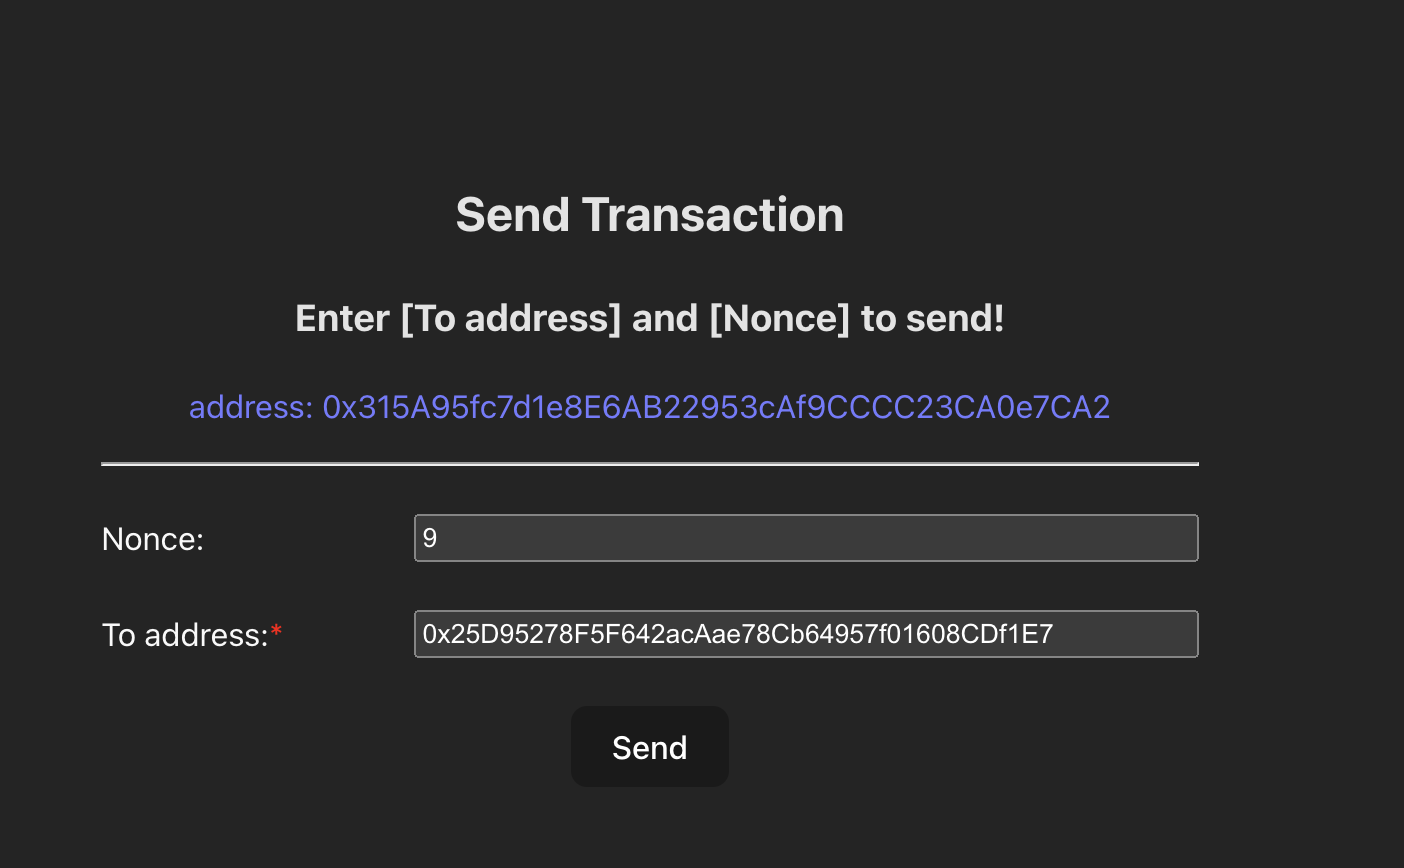
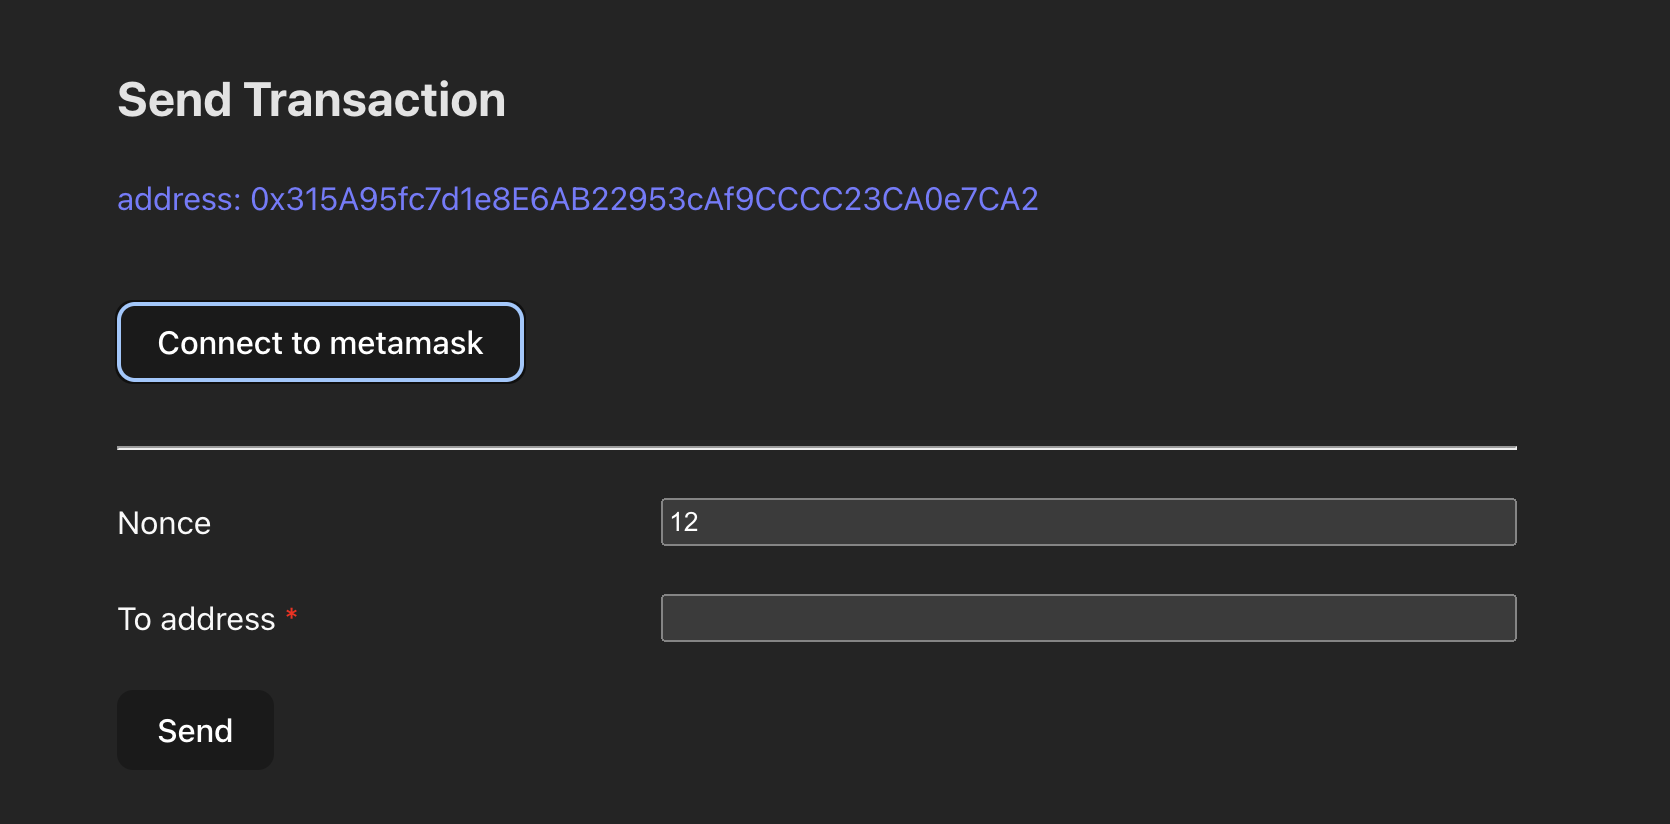
update readme

diff --git a/src/NetworkSettings.tsx b/src/NetworkSettings.tsx
@@ -37,7 +37,7 @@ const formConfig: Array<{
   label: string
   require: boolean
 }> = [
-  { name: 'networkName', label: 'Network Name', require: false },
+  { name: 'networkName', label: 'Network Name', require: true },
   { name: 'newRpcURL', label: 'New RPC URL', require: true },
   { name: 'chainID', label: 'Chain ID', require: true },
   { name: 'currencySymbol', label: 'Native Currency Symbol', require: true },
@@ -188,14 +188,14 @@ const NetworkSettings = () => {
         {renderChainOptions()}
       </div>
       <button type='submit' onClick={changeNetwork}>
-        Send
+        Switch
       </button>
 
       <h4> Add Network</h4>
       <hr />
       <form>{renderFields()}</form>
       <button type='submit' onClick={addCustomNetwork}>
-        Send
+        Add
       </button>
     </>
   )

diff --git a/src/SendTransaction.tsx b/src/SendTransaction.tsx
@@ -67,7 +67,6 @@ function SendTransaction() {
   return (
     <div className='sendTransaction__container'>
       <h2>Send Transaction</h2>
-      <h3>Enter [To address] and [Nonce] to send!</h3>
       <p className='address'>address: {signer?.address}</p>
       <button onClick={connectToMetaMask}>Connect to metamask</button>
       <hr />

diff --git a/README.md b/README.md
@@ -1,22 +1,33 @@
 # ether-transaction
 
-使用 Ethers.js 實作的簡單傳送 transaction 用 DApp。
-
 ## 連接 metamask
 
-測試範例是連接到測試網路 Ganache，並匯入了兩個測試用帳號 `Account 3`, `Account 4` 作發送 transaction 測試使用。
-
-<img src="imgs/readme04.png" width="300">
-<img src="imgs/readme03.png" width="300">
-
-進到頁面後若已經有登入 metaMask，會直接匯入使用中的帳號，並在介面上顯示 `address`，作為發送 transaction 帳號。
-
-## 填寫 transaction 資訊
-
-Nonce 自動帶入下一筆，To address 可填寫 transaction 目標的 address。（礦工費使用 EIP-1559）
+進到頁面後若沒有 metamask 則需要先安裝，登入後可點選 `Connect to metamask` 來連接帳號。連接後在介面會上顯示 `address`，作為發送 transaction 帳號。
 
 <img src="imgs/readme02.png" width="500">
 
-點 Send 後，預設會發送 0.1 ETH 給目標 address。
+## 需求一：發送帶有指定 nonce 的 transaction
 
-<img src="imgs/readme01.png" width="300">
+`Nonce` 自動帶入下一筆，`To address` 可填寫 transaction 目標的 `address`。（礦工費使用 EIP-1559）
+
+<img src="imgs/readme03.png" width="500">
+
+點 Send 後，預設會發送 `0.1 ETH` 給目標 `address`。
+
+<img src="imgs/readme04.png" width="300">
+
+## 需求二：切換節點網路（EIP-3326）
+
+選項列出了 metamask 提供的預設網路，選擇後點 `Switch` 切換。
+
+<img src="imgs/readme05.png" width="500">
+
+<img src="imgs/readme06.png" width="300">
+
+## 需求三：新增節點網路 (EIP-3085)
+
+填寫新增網路的資訊後，點選 `Add` 新增。
+
+<img src="imgs/readme08.png" width="500">
+
+<img src="imgs/readme09.png" width="300">
